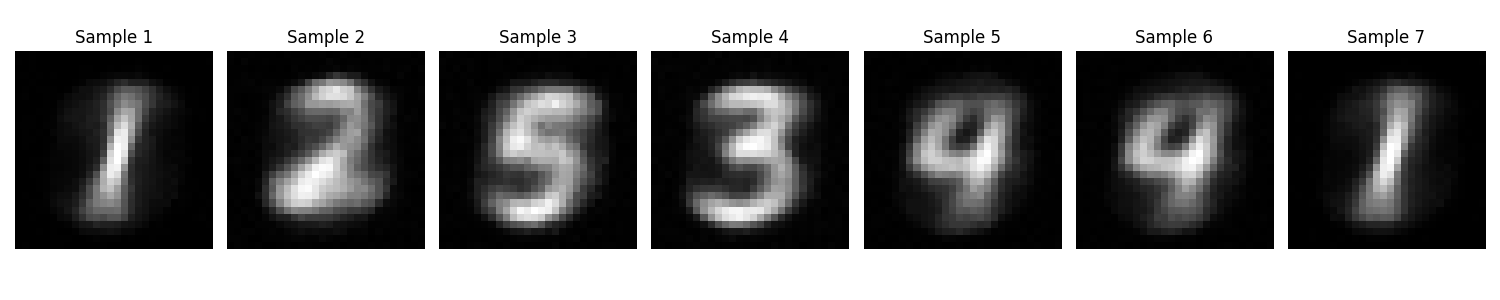
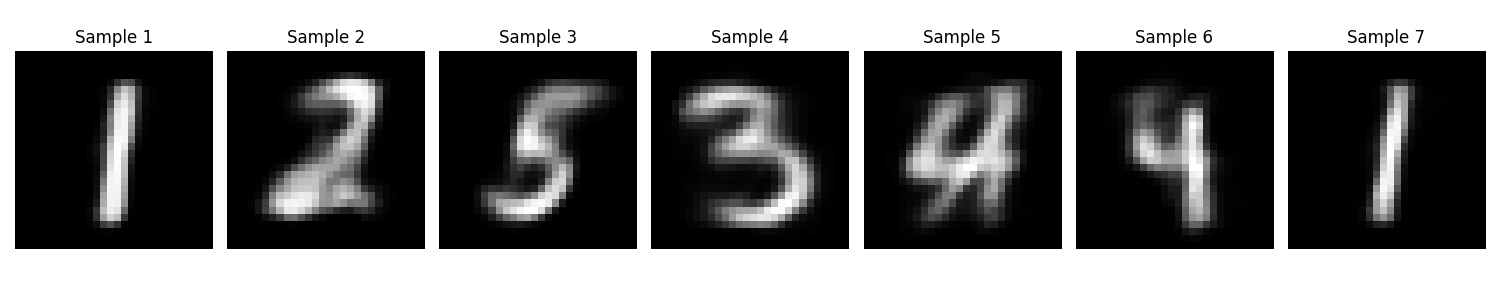
some changes

diff --git a/lem.py b/lem.py
@@ -24,8 +24,8 @@ label_data = F.one_hot(all_labels, num_classes=10).float()
 print(image_data.size())
 
 # ----- TRAINING --------#
-epochs = 10000
-it_steps = 50
+epochs = 1000
+it_steps = 100
 batch_size = 64
 lr = 1e-3
 lg_lr = 1e-4
@@ -37,6 +37,8 @@ lg_lr = 1e-4
 decoder = Decoder(8, 10)
 decoder_optim = optim.Adam(decoder.parameters(), lr=lr)
 
+z_bank = torch.randn(len(image_data), 8) # <- persistent z banks for the guys
+
 for i in range(epochs):
     decoder_optim.zero_grad()
 
@@ -44,7 +46,7 @@ for i in range(epochs):
     batch = image_data[indices]
     label_batch = label_data[indices]
 
-    z = torch.randn(batch_size, 8, requires_grad=True) # <- summon a random vector similar to our latent.
+    z = z_bank[indices].clone().detach().requires_grad_(True)
     
     #---- E STEP ----#
     for j in range(it_steps):
@@ -74,12 +76,14 @@ for i in range(epochs):
     z = z.detach()
     decoder_optim.zero_grad() # <- reset the guy just for safety
 
-    model_output, variance = decoder(z, label_batch)
+    model_output, logvar = decoder(z, label_batch)
 
     batch_loss = 0.5 * (
-        variance + ((batch - model_output) ** 2) / torch.exp(variance)
+        logvar + ((batch - model_output) ** 2) / torch.exp(logvar)
     ).sum(dim=1).mean()
     batch_loss.backward()
+
+    z_bank[indices] = z.detach()
 
     if i % 10 == 0:
         print(f"Epoch {i} loss: {batch_loss}")
